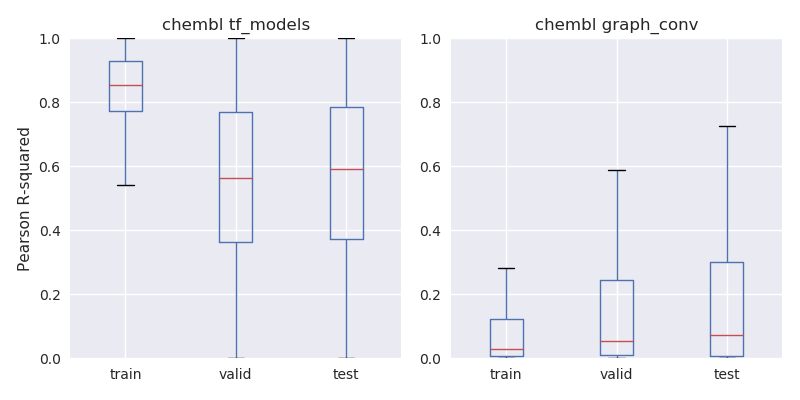
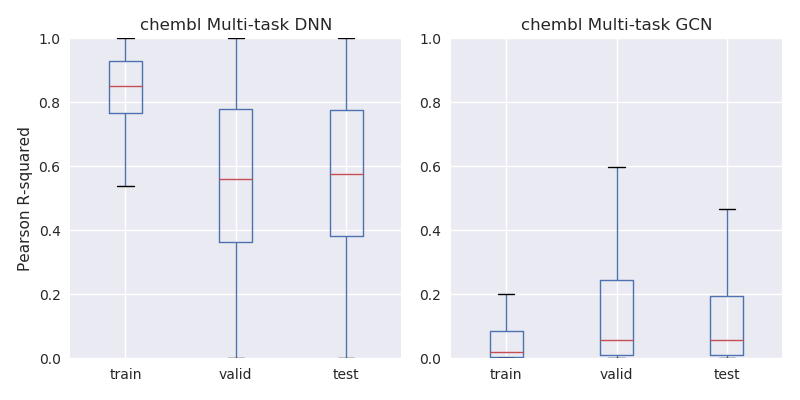
5-fold CV for tox21

diff --git a/tox21/graph_conv.py b/tox21/graph_conv.py
@@ -15,80 +15,97 @@ import deepchem as dc
 from datasets import load_tox21
 import timeit
 
+from deepchem.data.datasets import DiskDataset
+from sklearn.model_selection import KFold
+
 # Load Tox21 dataset
 tox21_tasks, tox21_datasets, transformers = load_tox21(
-        featurizer='GraphConv', split='random')
+        featurizer='GraphConv', split='index')
 train_dataset, valid_dataset, test_dataset = tox21_datasets
+
+X = train_dataset.X
+y = train_dataset.y
+w = train_dataset.w
 
 # Fit models
 metric = dc.metrics.Metric(
     dc.metrics.roc_auc_score, np.mean, mode="classification")
 
-# Number of features on conv-mols
-n_feat = 75
-# Batch size of models
-batch_size = 50
-graph_model = dc.nn.SequentialGraph(n_feat)
-graph_model.add(dc.nn.GraphConv(64, n_feat, activation='relu'))
-graph_model.add(dc.nn.BatchNormalization(epsilon=1e-5, mode=1))
-graph_model.add(dc.nn.GraphPool())
-graph_model.add(dc.nn.GraphConv(64, 64, activation='relu'))
-graph_model.add(dc.nn.BatchNormalization(epsilon=1e-5, mode=1))
-graph_model.add(dc.nn.GraphPool())
-# Gather Projection
-graph_model.add(dc.nn.Dense(128, 64, activation='relu'))
-graph_model.add(dc.nn.BatchNormalization(epsilon=1e-5, mode=1))
-graph_model.add(dc.nn.GraphGather(batch_size, activation="tanh"))
+kf = KFold(n_splits=5, shuffle=False, random_state=123)
 
-model = dc.models.MultitaskGraphClassifier(
-    graph_model,
-    len(tox21_tasks),
-    n_feat,
-    batch_size=batch_size,
-    learning_rate=0.0005,
-    optimizer_type="adam",
-    beta1=.9,
-    beta2=.999)
+all_train_scores = []
+all_test_scores = []
 
 start = timeit.default_timer()
 
-# Fit trained model
-model.fit(train_dataset, nb_epoch=15)
+for train_index, test_index in kf.split(X):
+
+    train_dataset = DiskDataset.from_numpy(X[train_index], y[train_index, :], w[train_index, :], verbose=False)
+    test_dataset = DiskDataset.from_numpy(X[test_index], y[test_index, :], w[test_index, :], verbose=False)
+
+    # Number of features on conv-mols
+    n_feat = 75
+    # Batch size of models
+    batch_size = 50
+    graph_model = dc.nn.SequentialGraph(n_feat)
+    graph_model.add(dc.nn.GraphConv(64, n_feat, activation='relu'))
+    graph_model.add(dc.nn.BatchNormalization(epsilon=1e-5, mode=1))
+    graph_model.add(dc.nn.GraphPool())
+    graph_model.add(dc.nn.GraphConv(64, 64, activation='relu'))
+    graph_model.add(dc.nn.BatchNormalization(epsilon=1e-5, mode=1))
+    graph_model.add(dc.nn.GraphPool())
+    # Gather Projection
+    graph_model.add(dc.nn.Dense(128, 64, activation='relu'))
+    graph_model.add(dc.nn.BatchNormalization(epsilon=1e-5, mode=1))
+    graph_model.add(dc.nn.GraphGather(batch_size, activation="tanh"))
+
+    model = dc.models.MultitaskGraphClassifier(
+        graph_model,
+        len(tox21_tasks),
+        n_feat,
+        batch_size=batch_size,
+        learning_rate=0.0005,
+        optimizer_type="adam",
+        beta1=.9,
+        beta2=.999)
+
+    # Fit trained model
+    model.fit(train_dataset, nb_epoch=15)
+
+    print("Evaluating model")
+    train_score, train_scores = model.evaluate(train_dataset, [metric], transformers, per_task_metrics=True)
+
+    print("Train scores")
+    print(train_score)
+
+    test_score, test_scores = model.evaluate(test_dataset, [metric], transformers, per_task_metrics=True)
+
+    print("Test scores")
+    print(test_score)
+
+    all_train_scores.append(train_scores['mean-roc_auc_score'])
+    all_test_scores.append(test_scores['mean-roc_auc_score'])
 
 train_time = timeit.default_timer() - start
 
-start = timeit.default_timer()
-
-print("Evaluating model")
-train_score, train_scores = model.evaluate(train_dataset, [metric], transformers, per_task_metrics=True)
-valid_score, valid_scores = model.evaluate(valid_dataset, [metric], transformers, per_task_metrics=True)
-test_score, test_scores = model.evaluate(test_dataset, [metric], transformers, per_task_metrics=True)
-
 eval_time = timeit.default_timer() - start
 
-print("Train scores")
-print(train_score)
-
-print("Validation scores")
-print(valid_score)
-
-print("Test scores")
-print(test_score)
+all_train_scores = np.concatenate(all_train_scores)
+all_test_scores = np.concatenate(all_test_scores)
 
 if not os.path.exists('log/tox21'): os.makedirs('log/tox21')
 out = open('log/tox21/graph_conv.log', 'w')
-out.write('Train scores: %s\n' % train_score)
-out.write('Validation scores: %s\n' % valid_score)
-out.write('Test scores: %s\n' % test_score)
+out.write('Train scores: %s\n' % np.mean(all_train_scores))
+out.write('Test scores: %s\n' % np.mean(all_test_scores))
 out.write('Train time: %.1fm\n' % (train_time/60.))
-out.write('Eval time: %.1fm\n' % (eval_time/60.))
 out.close()
 
 scores = [
-        train_scores['mean-roc_auc_score'],
-        valid_scores['mean-roc_auc_score'],
-        test_scores['mean-roc_auc_score'],
+        all_train_scores,
+        all_test_scores,
         ]
 scores = pd.DataFrame(scores).T
-scores.columns = ['train','valid','test']
+scores.columns = [
+        'train',
+        'test']
 scores.to_pickle('log/tox21/graph_conv.pkl')

diff --git a/tox21/tf_models.py b/tox21/tf_models.py
@@ -12,65 +12,78 @@ import deepchem as dc
 from datasets import load_tox21
 import timeit
 
+from deepchem.data.datasets import DiskDataset
+from sklearn.model_selection import KFold
+
 # Only for debug!
 np.random.seed(123)
 
 # Load Tox21 dataset
 tox21_tasks, tox21_datasets, transformers = load_tox21(
-        featurizer='ECFP', split='random')
+        featurizer='ECFP', split='index')
 train_dataset, valid_dataset, test_dataset = tox21_datasets
 
-# Fit models
-metric = dc.metrics.Metric(dc.metrics.roc_auc_score, np.mean, mode='classification')
+X = train_dataset.X
+y = train_dataset.y
+w = train_dataset.w
 
-model = dc.models.TensorflowMultiTaskClassifier(
-    len(tox21_tasks), train_dataset.get_data_shape()[0],
-    layer_sizes=[1500], bias_init_consts=[1.], dropouts=[0.5],
-    penalty=0.1, penalty_type='l2',
-    learning_rate=0.001, weight_init_stddevs=[0.02],
-    batch_size=50, verbosity="high")
+kf = KFold(n_splits=5, shuffle=False, random_state=123)
+
+all_train_scores = []
+all_test_scores = []
 
 start = timeit.default_timer()
 
-# Fit trained model
-model.fit(train_dataset, nb_epoch=10)
+for train_index, test_index in kf.split(X):
+
+    train_dataset = DiskDataset.from_numpy(X[train_index,:], y[train_index, :], w[train_index, :], verbose=False)
+    test_dataset = DiskDataset.from_numpy(X[test_index,:], y[test_index, :], w[test_index, :], verbose=False)
+
+    # Fit models
+    metric = dc.metrics.Metric(dc.metrics.roc_auc_score, np.mean, mode='classification')
+
+    model = dc.models.TensorflowMultiTaskClassifier(
+        len(tox21_tasks), train_dataset.get_data_shape()[0],
+        layer_sizes=[1500], bias_init_consts=[1.], dropouts=[0.5],
+        penalty=0.1, penalty_type='l2',
+        learning_rate=0.001, weight_init_stddevs=[0.02],
+        batch_size=50, verbosity="high")
+
+    # Fit trained model
+    model.fit(train_dataset, nb_epoch=10)
+
+    print("Evaluating model")
+    train_score, train_scores = model.evaluate(train_dataset, [metric], transformers, per_task_metrics=True)
+
+    print("Train scores")
+    print(train_score)
+
+    test_score, test_scores = model.evaluate(test_dataset, [metric], transformers, per_task_metrics=True)
+
+    print("Test scores")
+    print(test_score)
+
+    all_train_scores.append(train_scores['mean-roc_auc_score'])
+    all_test_scores.append(test_scores['mean-roc_auc_score'])
 
 train_time = timeit.default_timer() - start
 
-model.save()
-
-start = timeit.default_timer()
-
-print("Evaluating model")
-train_score, train_scores = model.evaluate(train_dataset, [metric], transformers, per_task_metrics=True)
-valid_score, valid_scores = model.evaluate(valid_dataset, [metric], transformers, per_task_metrics=True)
-test_score, test_scores = model.evaluate(test_dataset, [metric], transformers, per_task_metrics=True)
-
-eval_time = timeit.default_timer() - start
-
-print("Train scores")
-print(train_score)
-
-print("Validation scores")
-print(valid_score)
-
-print("Test scores")
-print(test_score)
+all_train_scores = np.concatenate(all_train_scores)
+all_test_scores = np.concatenate(all_test_scores)
 
 if not os.path.exists('log/tox21'): os.makedirs('log/tox21')
 out = open('log/tox21/tf_models.log', 'w')
-out.write('Train scores: %s\n' % train_score)
-out.write('Validation scores: %s\n' % valid_score)
-out.write('Test scores: %s\n' % test_score)
+out.write('Train scores: %s\n' % np.mean(all_train_scores))
+out.write('Test scores: %s\n' % np.mean(all_test_scores))
 out.write('Train time: %.1fm\n' % (train_time/60.))
-out.write('Eval time: %.1fm\n' % (eval_time/60.))
 out.close()
 
 scores = [
-        train_scores['mean-roc_auc_score'],
-        valid_scores['mean-roc_auc_score'],
-        test_scores['mean-roc_auc_score'],
+        all_train_scores,
+        all_test_scores,
         ]
 scores = pd.DataFrame(scores).T
-scores.columns = ['train','valid','test']
+scores.columns = [
+        'train',
+        'test']
 scores.to_pickle('log/tox21/tf_models.pkl')

diff --git a/main.py b/main.py
@@ -27,14 +27,14 @@ if __name__ == '__main__':
     taskname = os.path.basename(datafile)
     optimizer = 'Adam'
     lr = 0.0001
-    epochs = 100
+    epochs = 50
     dropout = 0.1
+    batch_size = 1500
 
     for activation in ['sigmoid']:
-        for batch_size in [1500]:
-            for unit1 in [3000]:
-                for unit2 in [60]:
-                    dnn.validation(taskname, data, layers=[unit1, unit2], 
-                            batch_size=batch_size, epochs=epochs, class_weight=None,
-                            optimizer=optimizer, lr=lr, activation=activation,
-                            dropout=dropout, patience=100, count=1)
+        for unit1 in [3000]:
+            for unit2 in [60]:
+                dnn.validation(taskname, data, layers=[unit1, unit2], 
+                        batch_size=batch_size, epochs=epochs, class_weight=None,
+                        optimizer=optimizer, lr=lr, activation=activation,
+                        dropout=dropout, patience=100, count=1)

diff --git a/plot.py b/plot.py
@@ -16,6 +16,7 @@ def main():
 
             ax = plt.subplot(1,2,i)
             df.boxplot(ax=ax)
+
             if dataset == 'chembl':
                 if i == 1:
                     plt.ylabel('Pearson R-squared')
@@ -24,6 +25,11 @@ def main():
                 if i == 1:
                     plt.ylabel('ROC AUC')
                 plt.ylim(0.5, 1.0)
+            
+            if method == 'tf_models':
+                method = 'Multi-task DNN'
+            elif method == 'graph_conv':
+                method = 'Multi-task GCN'
             plt.title('%s %s' % (dataset, method))
             plt.tight_layout()
         plt.savefig('log/%s.png' % (dataset))

diff --git a/tox21/datasets.py b/tox21/datasets.py
@@ -41,5 +41,5 @@ def load_tox21(featurizer='ECFP', split='index'):
                'scaffold': dc.splits.ScaffoldSplitter(),
                'butina': dc.splits.ButinaSplitter()}
   splitter = splitters[split]
-  train, valid, test = splitter.train_valid_test_split(dataset)
+  train, valid, test = splitter.train_valid_test_split(dataset, frac_train=1., frac_valid=0., frac_test=0.)
   return tox21_tasks, (train, valid, test), transformers
